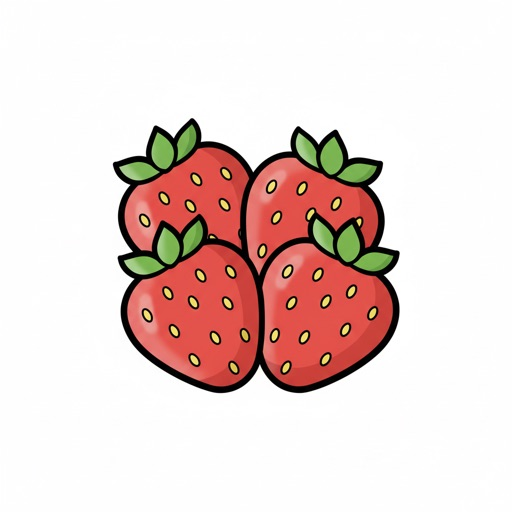
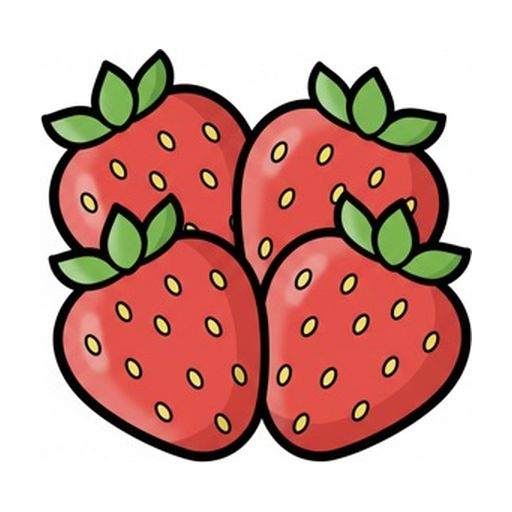
fix: 전체 이미지 512x512 통일 및 여백 정규화
Pillow로 흰색 여백 트림 후 8% 균일 패딩 적용하여
모든 카드 이미지를 512x512 JPG로 통일.
thermometer.png → jpg 변환 포함.

diff --git a/src/App.tsx b/src/App.tsx
@@ -12,7 +12,7 @@ const wordData = [
   { name: '양말', file: 'socks.jpg' },
   { name: '인형', file: 'doll.jpg' },
   { name: '세탁기', file: 'washer.jpg' },
-  { name: '체온계', file: 'thermometer.png' },
+  { name: '체온계', file: 'thermometer.jpg' },
   { name: '냉장고', file: 'fridge.jpg' },
   { name: '숟가락', file: 'spoon.jpg' },
   { name: '젓가락', file: 'chopsticks.jpg' },
